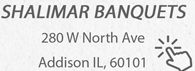
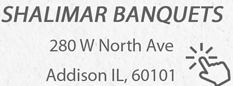
Adding files

diff --git a/index.html b/index.html
@@ -1,49 +1,49 @@
 <html>
 <head>
-<title>Invitation</title>
+<title>You're Invited!</title>
 <meta http-equiv="Content-Type" content="text/html; charset=iso-8859-1">
 </head>
 <body bgcolor=#000000>
-<table id="Table_01" width=744 height=1050 border=0 cellpadding=0 cellspacing=0 align=center>
+<table id="Table_01" width=892 height=1260 border=0 cellpadding=0 cellspacing=0 align=center>
 	<tr>
 		<td colspan=5>
-			<img src="images/index_01.gif" width=743 height=861></td>
+			<img src="images/index_01.jpg" width=891 height=1033></td>
 		<td>
-			<img src="images/spacer.gif" width=1 height=861></td>
+			<img src="images/spacer.gif" width=1 height=1033></td>
 	</tr>
 	<tr>
 		<td colspan=3 rowspan=2>
-			<img src="images/index_02.gif" width=286 height=110></td>
+			<img src="images/index_02.jpg" width=343 height=132></td>
 		<td>
 			<a href="https://goo.gl/maps/tWwGmPFwk8X7gJ7M7">
-				<img src="images/Shalimar-Banquets.jpg" width=195 height=71 border=0></a></td>
+				<img src="images/Shalimar-Banquets.jpg" width=233 height=86 border=0></a></td>
 		<td rowspan=4>
-			<img src="images/index_04.gif" width=262 height=189></td>
+			<img src="images/index_04.jpg" width=315 height=227></td>
 		<td>
-			<img src="images/spacer.gif" width=1 height=71></td>
+			<img src="images/spacer.gif" width=1 height=86></td>
 	</tr>
 	<tr>
 		<td rowspan=3>
-			<img src="images/index_05.gif" width=195 height=118></td>
+			<img src="images/index_05.jpg" width=233 height=141></td>
 		<td>
-			<img src="images/spacer.gif" width=1 height=39></td>
+			<img src="images/spacer.gif" width=1 height=46></td>
 	</tr>
 	<tr>
 		<td rowspan=2>
-			<img src="images/index_06.gif" width=23 height=79></td>
-		<td bgcolor=#FFFFFF>
+			<img src="images/index_06.jpg" width=27 height=95></td>
+		<td>
 			<a href="https://theknot.com/yusraandyasaa">
-				<img src="images/The-Knot.jpg" width=246 height=58 border=0></a></td>
+				<img src="images/The-Knot.jpg" width=296 height=70 border=0></a></td>
 		<td rowspan=2>
-			<img src="images/index_08.gif" width=17 height=79></td>
+			<img src="images/index_08.jpg" width=20 height=95></td>
 		<td>
-			<img src="images/spacer.gif" width=1 height=58></td>
+			<img src="images/spacer.gif" width=1 height=70></td>
 	</tr>
 	<tr>
 		<td>
-			<img src="images/index_09.gif" width=246 height=21></td>
+			<img src="images/index_09.jpg" width=296 height=25></td>
 		<td>
-			<img src="images/spacer.gif" width=1 height=21></td>
+			<img src="images/spacer.gif" width=1 height=25></td>
 	</tr>
 </table>
 </body>
